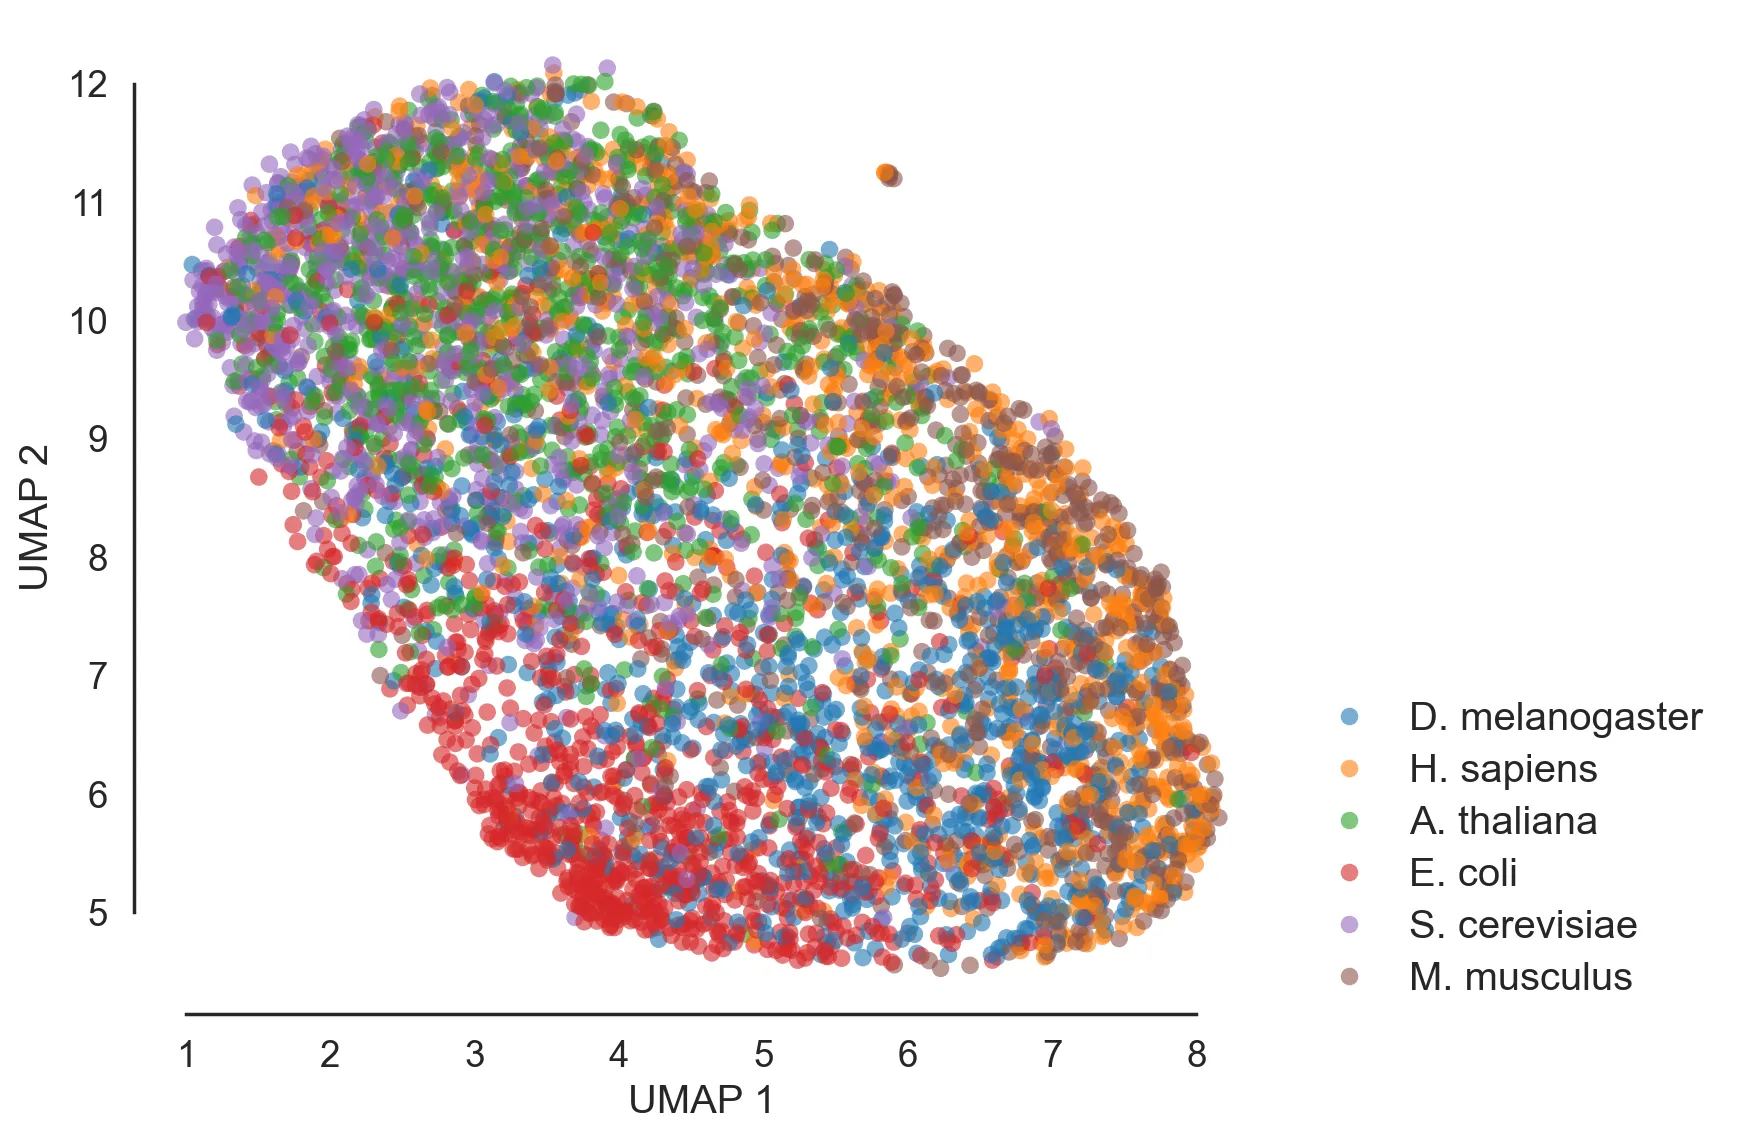
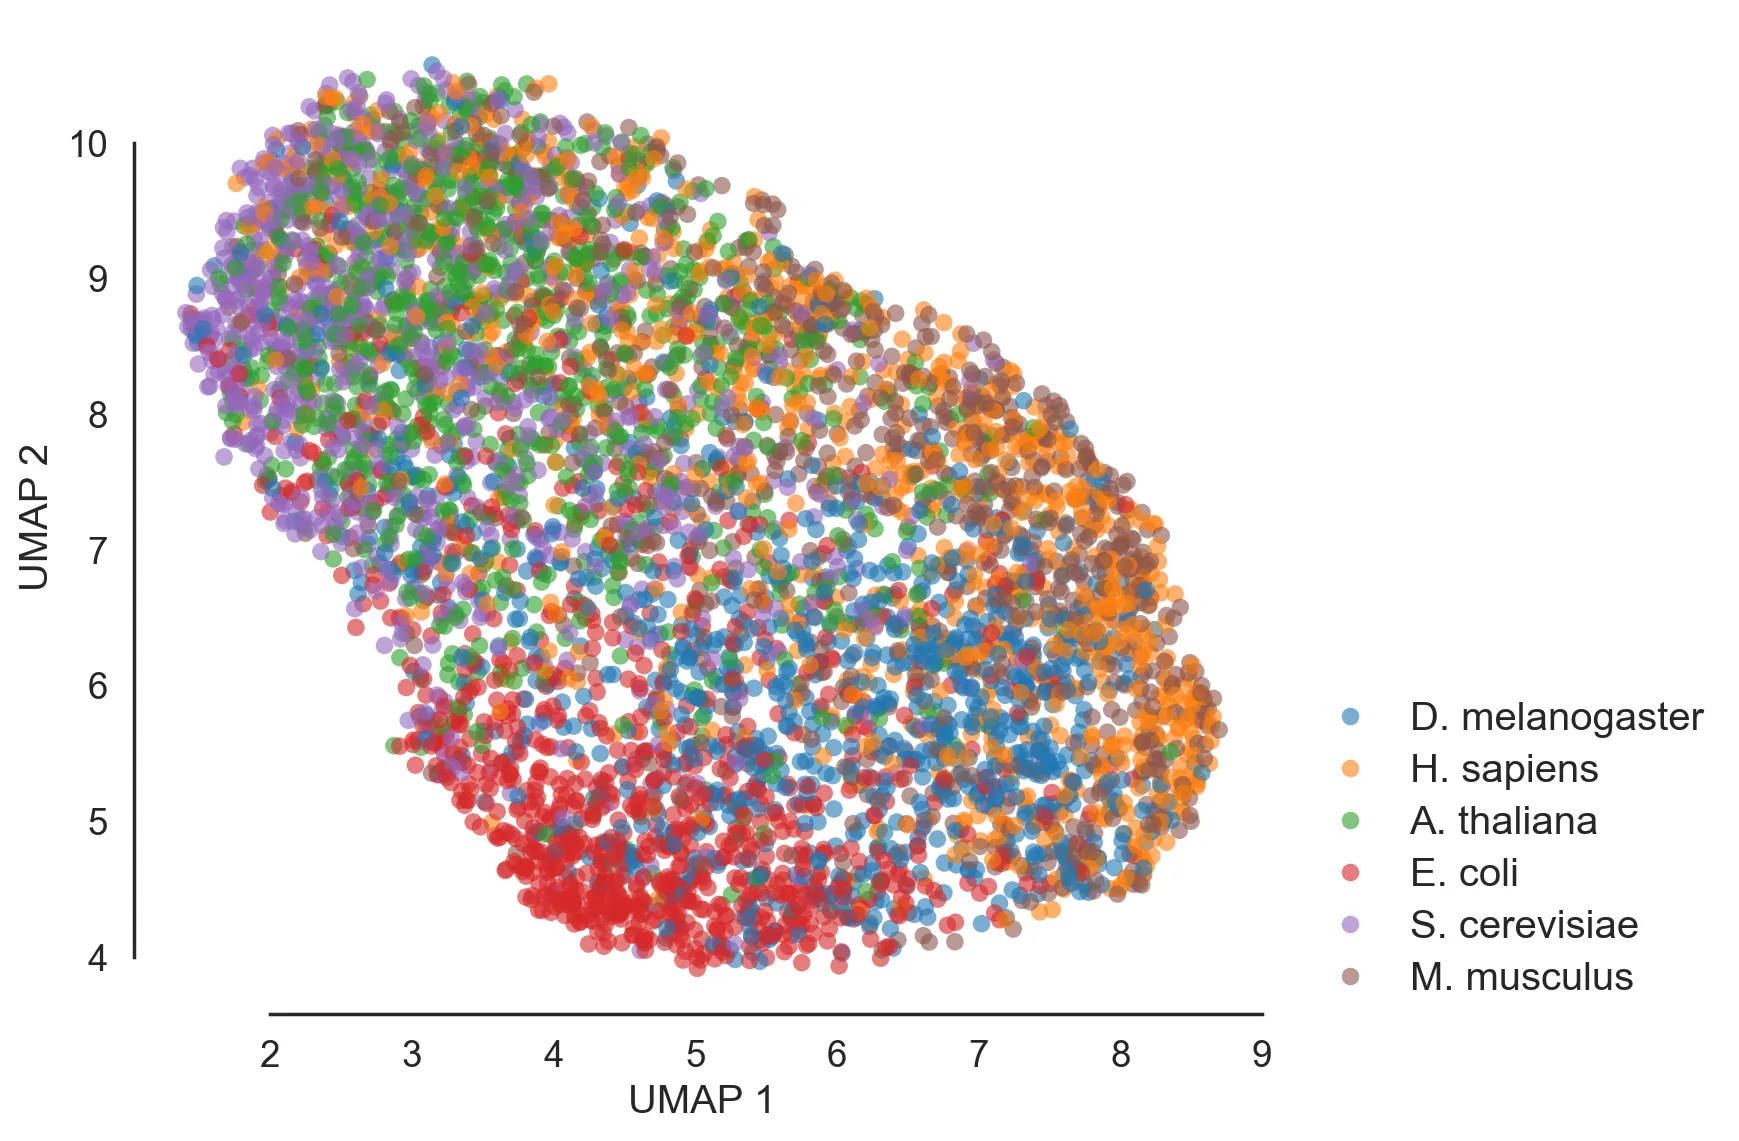
chore: polish scripts

diff --git a/assets/python/2025-05-02-hf-transformers/main.py b/assets/python/2025-05-02-hf-transformers/main.py
@@ -20,6 +20,7 @@ import sys
 
 import numpy as np
 from sklearn.linear_model import LogisticRegression
+import torch
 from transformers import (
     AutoTokenizer,
     AutoModelForMaskedLM,
@@ -28,13 +29,13 @@ from transformers import (
     Trainer,
     DataCollatorWithPadding,
 )
-from transformers.pipelines.pt_utils import KeyDataset
 
 from pipelines import DNAEmbeddingPipeline, DNAClassificationPipeline
 from project_utils import (
     compute_accuracy,
     create_dataset,
     compute_trainer_metrics,
+    extract_embeddings_from_pipeline,
     plot_umap,
     plot_confusion_matrix,
 )
@@ -43,7 +44,8 @@ sys.path.append("../")
 
 from utils import save_fig
 
-# configuration
+# global parameters
+MAX_LENGTH = 15
 MODEL = "InstaDeepAI/nucleotide-transformer-v2-50m-multi-species"
 DATASETS = [
     ("Arabidopsis_thaliana", "A. thaliana"),
@@ -53,56 +55,57 @@ DATASETS = [
     ("Mus_musculus", "M. musculus"),
     ("Saccharomyces_cerevisiae", "S. cerevisiae"),
 ]
+SEED = 42
+np.random.seed(SEED)
+torch.manual_seed(SEED)
+
+# fine-tuning parameters
+BATCH_SIZE = 64
+N_EPOCHS = 10
+N_LAYERS_TO_FREEZE_FINETUNE = 10
+VALIDATION_SPLIT_SIZE = 0.1
 
 # %%
 # trust_remote_code is needed since the model is not native to the library
-tokenizer = AutoTokenizer.from_pretrained(MODEL, trust_remote_code=True)
-model = AutoModelForMaskedLM.from_pretrained(MODEL, trust_remote_code=True)
+tokenizer_nt = AutoTokenizer.from_pretrained(MODEL, trust_remote_code=True)
+embedder_nt = AutoModelForMaskedLM.from_pretrained(MODEL, trust_remote_code=True)
 
-pipeline = DNAEmbeddingPipeline(model=model, tokenizer=tokenizer)
+pipe = DNAEmbeddingPipeline(model=embedder_nt, tokenizer=tokenizer_nt)
 
 train_ds = create_dataset("data/train/", DATASETS)
+tr_labels = [DATASETS[x][1] for x in train_ds["labels"]]
+
 test_ds = create_dataset("data/test/", DATASETS)
+te_labels = [DATASETS[x][1] for x in test_ds["labels"]]
 # %%
-train_emb = []
+train_emb, _ = extract_embeddings_from_pipeline(pipe, train_ds, max_length=MAX_LENGTH)
 
-for e in pipeline(KeyDataset(train_ds, "text"), max_length=30):
-    train_emb.append(e)
-
-train_emb = np.concatenate(train_emb, axis=0)
-
-labels = [label for _, label in DATASETS for _ in range(1000)]
-fig = plot_umap(train_emb, labels)
+fig = plot_umap(train_emb, tr_labels, seed=SEED)
 save_fig(fig, "umap_embeddings")
 
 # %% [markdown]
 # # Predict the species from the embedding
 
 # %%
-model = LogisticRegression()
-model.fit(train_emb, labels)
+lr = LogisticRegression(random_state=SEED)
+lr.fit(train_emb, tr_labels)
 
-tr_pred = model.predict(train_emb)
-accuracy = compute_accuracy(labels, tr_pred)
+tr_pred = lr.predict(train_emb)
+accuracy = compute_accuracy(tr_labels, tr_pred)
 print(f"Train Accuracy: {accuracy:.2f}")
 
-fig = plot_confusion_matrix(labels, tr_pred)
+fig = plot_confusion_matrix(tr_labels, tr_pred)
 
 # %%
-test_emb = []
+test_emb, _ = extract_embeddings_from_pipeline(pipe, test_ds, max_length=MAX_LENGTH)
 
-for e in pipeline(KeyDataset(test_ds, "text"), max_length=30):
-    test_emb.append(e)
-
-test_emb = np.concatenate(test_emb, axis=0)
-
-te_pred = model.predict(test_emb)
-accuracy = compute_accuracy(labels, te_pred)
+te_pred = lr.predict(test_emb)
+accuracy = compute_accuracy(te_labels, te_pred)
 print(f"Test Accuracy: {accuracy:.2f}")
-fig = plot_confusion_matrix(labels, te_pred)
+fig = plot_confusion_matrix(te_labels, te_pred)
 save_fig(fig, "confusion_matrix_test")
 
-random_accuracy = compute_accuracy(labels, np.random.permutation(labels))
+random_accuracy = compute_accuracy(te_labels, np.random.permutation(te_labels))
 print(f"(Random Accuracy: {random_accuracy:.2f})")
 
 # %% [markdown]
@@ -111,8 +114,8 @@ print(f"(Random Accuracy: {random_accuracy:.2f})")
 # ## Load model
 
 # %%
-model = AutoModelForSequenceClassification.from_pretrained(
-    MODEL, num_labels=6, trust_remote_code=True
+classif_nt = AutoModelForSequenceClassification.from_pretrained(
+    MODEL, num_labels=len(DATASETS), trust_remote_code=True
 )
 
 
@@ -124,10 +127,10 @@ model = AutoModelForSequenceClassification.from_pretrained(
 def preprocess(ds):
 
     def tokenize_batch(batch):
-        batch = tokenizer(
+        batch = tokenizer_nt(
             batch["text"],
             padding="longest",
-            max_length=tokenizer.model_max_length,
+            max_length=MAX_LENGTH,
             truncation=True,
             return_tensors="pt",
         )
@@ -139,7 +142,7 @@ def preprocess(ds):
 
 
 tokenized_train_ds = preprocess(train_ds)
-split = tokenized_train_ds.train_test_split(test_size=0.1, seed=42)
+split = tokenized_train_ds.train_test_split(test_size=VALIDATION_SPLIT_SIZE, seed=SEED)
 
 # train - validation split
 tr_train_ds = split["train"]
@@ -152,29 +155,30 @@ tokenized_test_ds = preprocess(test_ds)
 
 # %%
 # Freeze the bottom N transformer layers to speed up / regularize
-for param in model.base_model.embeddings.parameters():
+for param in classif_nt.base_model.embeddings.parameters():
     param.requires_grad = False
 
-for layer_idx, layer_module in enumerate(model.base_model.encoder.layer):
-    if layer_idx < 10:
+for layer_idx, layer_module in enumerate(classif_nt.base_model.encoder.layer):
+    if layer_idx < N_LAYERS_TO_FREEZE_FINETUNE:
         for param in layer_module.parameters():
             param.requires_grad = False
 
 # Set up Trainer
 training_args = TrainingArguments(
-    per_device_train_batch_size=64,
-    per_device_eval_batch_size=64,
-    num_train_epochs=10,
+    per_device_train_batch_size=BATCH_SIZE,
+    per_device_eval_batch_size=BATCH_SIZE,
+    num_train_epochs=N_EPOCHS,
     eval_strategy="epoch",
     save_strategy="epoch",
     load_best_model_at_end=True,
     metric_for_best_model="accuracy",
+    seed=SEED,
     dataloader_pin_memory=False,  # not supported by mps
 )
-data_collator = DataCollatorWithPadding(tokenizer=tokenizer)
+data_collator = DataCollatorWithPadding(tokenizer=tokenizer_nt)
 
 trainer = Trainer(
-    model=model,
+    model=classif_nt,
     args=training_args,
     train_dataset=tr_train_ds,
     eval_dataset=tr_val_ds,
@@ -200,20 +204,14 @@ print(f"Test accuracy after training: {perf['eval_accuracy']:.2f}")
 # ## Downstream tasks
 
 # %%
-emb_pipe = DNAClassificationPipeline(model=trainer.model, tokenizer=tokenizer)
+pipe = DNAClassificationPipeline(model=trainer.model, tokenizer=tokenizer_nt)
 
-test_emb_ft = []
-test_pred_ft = []
-
-for e in emb_pipe(KeyDataset(test_ds, "text"), max_length=30):
-    test_emb_ft.append(e["embedding"])
-    test_pred_ft.append(e["logits"])
-
-test_emb_ft = np.concatenate(test_emb_ft, axis=0)
-test_pred_ft = np.concatenate(test_pred_ft, axis=0)
+test_emb_ft, test_pred_ft = extract_embeddings_from_pipeline(
+    pipe, test_ds, max_length=MAX_LENGTH
+)
 
 # %%
-fig = plot_umap(test_emb_ft, labels)
+fig = plot_umap(test_emb_ft, te_labels, seed=SEED)
 save_fig(fig, "umap_embeddings_ft-model")
 
 # %%

diff --git a/assets/python/2025-05-02-hf-transformers/project_utils.py b/assets/python/2025-05-02-hf-transformers/project_utils.py
@@ -7,6 +7,7 @@ import numpy as np
 import pandas as pd
 import seaborn as sns
 from sklearn.metrics import confusion_matrix, ConfusionMatrixDisplay
+from transformers.pipelines.pt_utils import KeyDataset
 import umap
 
 
@@ -16,14 +17,14 @@ def compute_trainer_metrics(p):
 
 
 def plot_umap(
-    embeddings: np.ndarray, labels: List[str], palette: str = "tab10"
+    embeddings: np.ndarray, labels: List[str], palette: str = "tab10", seed: int = 42
 ) -> plt.Figure:
     # Compute UMAP
     umap_model = umap.UMAP(
         n_neighbors=15,
         n_components=2,
         metric="cosine",
-        random_state=42,
+        random_state=seed,
         low_memory=True,
     )
     umap_embeddings = umap_model.fit_transform(embeddings)
@@ -31,7 +32,7 @@ def plot_umap(
     # Prepare DataFrame
     df = pd.DataFrame(umap_embeddings, columns=["UMAP 1", "UMAP 2"])
     df["Label"] = labels
-    df = df.sample(frac=1, random_state=42).reset_index(drop=True)
+    df = df.sample(frac=1, random_state=seed).reset_index(drop=True)
 
     # Set plot style
     sns.set_theme(style="white", context="notebook", font_scale=1.2)
@@ -125,3 +126,21 @@ def create_dataset(prefix: str, ds_list: List[Tuple[str]]):
     dataset = concatenate_datasets(dataset)
 
     return dataset
+
+
+def extract_embeddings_from_pipeline(pipeline, dataset, **pipeline_kwargs):
+
+    embeddings = []
+    predictions = []
+
+    for e in pipeline(KeyDataset(dataset, "text"), **pipeline_kwargs):
+        if "embedding" in e:
+            embeddings.append(e["embedding"])
+        if "logits" in e:
+            predictions.append(e["logits"])
+
+    embeddings = np.concatenate(embeddings, axis=0)
+    if predictions:
+        predictions = np.concatenate(predictions, axis=0)
+
+    return embeddings, predictions

diff --git a/assets/python/2025-05-02-hf-transformers/pipelines.py b/assets/python/2025-05-02-hf-transformers/pipelines.py
@@ -84,13 +84,17 @@ class DNAEmbeddingPipeline(DNAPipeline):
         self,
         model_outputs: Dict[str, Any],
     ) -> Union[np.ndarray, List[np.ndarray]]:
+
+        out = {}
+
         embeddings = model_outputs["hidden_states"][-1].detach()
         attention_mask = model_outputs["attention_mask"].unsqueeze(-1).cpu()
         masked_embeddings = attention_mask * embeddings
 
         mean_sequence_embeddings = masked_embeddings.sum(1) / attention_mask.sum(1)
+        out["embedding"] = mean_sequence_embeddings.cpu().numpy()
 
-        return mean_sequence_embeddings.cpu().numpy()
+        return out
 
 
 # %%
